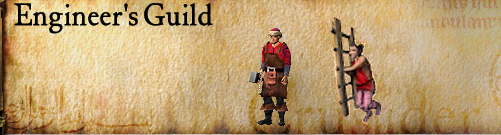
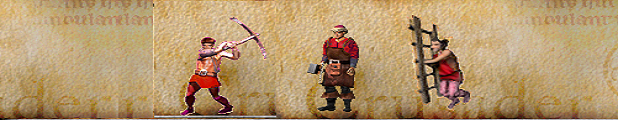
building pane completed

diff --git a/src/main/java/View/Controller/BuildingInfo.java b/src/main/java/View/Controller/BuildingInfo.java
@@ -1,14 +1,11 @@
 package View.Controller;
 
-import javafx.fxml.FXML;
 import javafx.scene.control.TextField;
-import javafx.scene.image.ImageView;
 import javafx.scene.input.MouseEvent;
 
 import java.util.ArrayList;
 
 import Controller.GameMenuController;
-import Model.DataBase;
 
 public class BuildingInfo {
     public static ArrayList<String> imagesOrder;
@@ -36,120 +33,143 @@ public class BuildingInfo {
     }
 
 
-    public void archerBow(MouseEvent mouseEvent) {
+    public void archerBow(MouseEvent ignoredMouseEvent) {
         GameMenuController.createUnitController("ArcherBow");
     }
 
-    public void slave(MouseEvent mouseEvent) {
+    public void slave(MouseEvent ignoredMouseEvent) {
         GameMenuController.createUnitController("Slave");
     }
 
-    public void slinger(MouseEvent mouseEvent) {
+    public void slinger(MouseEvent ignoredMouseEvent) {
         GameMenuController.createUnitController("Slinger");
     }
 
-    public void assassin(MouseEvent mouseEvent) {
+    public void assassin(MouseEvent ignoredMouseEvent) {
         GameMenuController.createUnitController("Assassin");
     }
 
-    public void arabianSwordMan(MouseEvent mouseEvent) {
+    public void arabianSwordMan(MouseEvent ignoredMouseEvent) {
         GameMenuController.createUnitController("ArabianSwordMan");
     }
 
-    public void horseArcher(MouseEvent mouseEvent) {
+    public void horseArcher(MouseEvent ignoredMouseEvent) {
         GameMenuController.createUnitController("HorseArcher");
     }
 
-    public void fireThrower(MouseEvent mouseEvent) {
+    public void fireThrower(MouseEvent ignoredMouseEvent) {
         GameMenuController.createUnitController("FireThrower");
     }
 
-    public void archer(MouseEvent mouseEvent) {
+    public void archer(MouseEvent ignoredMouseEvent) {
         GameMenuController.createUnitController("Archer");
     }
 
-    public void spearMan(MouseEvent mouseEvent) {
+    public void spearMan(MouseEvent ignoredMouseEvent) {
         GameMenuController.createUnitController("SpearMan");
     }
 
-    public void maceMan(MouseEvent mouseEvent) {
+    public void maceMan(MouseEvent ignoredMouseEvent) {
         GameMenuController.createUnitController("MaceMan");
     }
 
-    public void crossBowMan(MouseEvent mouseEvent) {
+    public void crossBowMan(MouseEvent ignoredMouseEvent) {
         GameMenuController.createUnitController("CrossBowMan");
     }
 
-    public void pikeMan(MouseEvent mouseEvent) {
+    public void pikeMan(MouseEvent ignoredMouseEvent) {
         GameMenuController.createUnitController("PikeMan");
     }
 
-    public void swordMan(MouseEvent mouseEvent) {
+    public void swordMan(MouseEvent ignoredMouseEvent) {
         GameMenuController.createUnitController("SwordMan");
     }
 
-    public void knight(MouseEvent mouseEvent) {
+    public void knight(MouseEvent ignoredMouseEvent) {
         GameMenuController.createUnitController("Knight");
     }
 
-    public void stanGround(MouseEvent mouseEvent) {
+    public void ladderMan(MouseEvent ignoredMouseEvent) {
+        GameMenuController.createUnitController("LadderMan");
+    }
+
+    public void engineer(MouseEvent ignoredMouseEvent) {
+        GameMenuController.createUnitController("Engineer");
+    }
+
+    public void tunneler(MouseEvent ignoredMouseEvent) {
+        GameMenuController.createUnitController("Tunneler");
+    }
+
+    public void stanGround(MouseEvent ignoredMouseEvent) {
         GameMenuController.setUnitModeController("stanGround");
     }
 
-    public void defensive(MouseEvent mouseEvent) {
+    public void defensive(MouseEvent ignoredMouseEvent) {
         GameMenuController.setUnitModeController("defensive");
     }
 
-    public void aggressive(MouseEvent mouseEvent) {
+    public void aggressive(MouseEvent ignoredMouseEvent) {
         GameMenuController.setUnitModeController("Aggressive");
     }
 
-    public void stop(MouseEvent mouseEvent) {
+    public void stop(MouseEvent ignoredMouseEvent) {
 
     }
 
-    public void patrol(MouseEvent mouseEvent) {
+    public void patrol(MouseEvent ignoredMouseEvent) {
 
     }
 
-    public void attack(MouseEvent mouseEvent) {
+    public void attack(MouseEvent ignoredMouseEvent) {
 
     }
 
-    public void disband(MouseEvent mouseEvent) {
-
+    public void disband(MouseEvent ignoredMouseEvent) {
+        GameMenuController.disbandUnit();
     }
 
-    public void repair(MouseEvent mouseEvent) {
+    public void repair(MouseEvent ignoredMouseEvent) {
+        GameMenuController.repair();
     }
 
-    public void close(MouseEvent mouseEvent) {
+    public void close(MouseEvent ignoredMouseEvent) {
+        GameMenuController.modifyGates(false);
     }
 
-    public void open(MouseEvent mouseEvent) {
+    public void open(MouseEvent ignoredMouseEvent) {
+        GameMenuController.modifyGates(true);
     }
 
-    public void sword(MouseEvent mouseEvent) {
+    public void sword(MouseEvent ignoredMouseEvent) {
+        GameMenuController.changeProduct("Sword");
     }
 
-    public void mace(MouseEvent mouseEvent) {
+    public void mace(MouseEvent ignoredMouseEvent) {
+        GameMenuController.changeProduct("Mace");
     }
 
-    public void bow(MouseEvent mouseEvent) {
+    public void bow(MouseEvent ignoredMouseEvent) {
+        GameMenuController.changeProduct("Bow");
     }
 
-    public void crossBow(MouseEvent mouseEvent) {
+    public void crossBow(MouseEvent ignoredMouseEvent) {
+        GameMenuController.changeProduct("CrossBow");
     }
 
-    public void spear(MouseEvent mouseEvent) {
+    public void spear(MouseEvent ignoredMouseEvent) {
+        GameMenuController.changeProduct("Spear");
     }
 
-    public void pike(MouseEvent mouseEvent) {
+    public void pike(MouseEvent ignoredMouseEvent) {
+        GameMenuController.changeProduct("Pike");
     }
 
-    public void leatherArmour(MouseEvent mouseEvent) {
+    public void leatherArmour(MouseEvent ignoredMouseEvent) {
+        GameMenuController.changeProduct("LeatherArmour");
     }
 
-    public void cheese(MouseEvent mouseEvent) {
+    public void cheese(MouseEvent ignoredMouseEvent) {
+        GameMenuController.changeProduct("Cheese");
     }
 }

diff --git a/src/main/java/Controller/GameMenuController.java b/src/main/java/Controller/GameMenuController.java
@@ -11,8 +11,12 @@ import Model.Units.Siege;
 import Model.Units.StateUnits;
 import Model.Units.Troop;
 import Model.Units.Unit;
+import View.Controller.BuildingInfo;
 import View.Game;
 import View.Enums.Messages.GameMenuMessages;
+import javafx.scene.control.Alert;
+
+import java.io.IOException;
 import java.util.ArrayList;
 import java.util.HashMap;
 import java.util.Objects;
@@ -50,7 +54,27 @@ public class GameMenuController {
 
 
 
-    public static ArrayList<ArrayList<Unit>> separateUnits(HashMap<String, Integer> unitNameAndCount) {
+
+    public static ArrayList<ArrayList<Unit>> separateUnits() {
+        HashMap<String, Integer> unitNameAndCount = new HashMap<>();
+
+        for (int i = 0; i < 8; i++) {
+            if (!BuildingInfo.getTextFields().get(i).isVisible()) break;
+            if (BuildingInfo.getTextFields().get(i).getText().matches("^\\d*$")) {
+                if (BuildingInfo.getTextFields().get(i).getText().matches("^\\d+$"))
+                    unitNameAndCount.put(BuildingInfo.imagesOrder.get(i), Integer.parseInt(BuildingInfo.getTextFields().get(i).getText()));
+                else
+                    unitNameAndCount.put(BuildingInfo.imagesOrder.get(i), -1);
+
+                continue;
+            }
+
+            Alert alert = new Alert(Alert.AlertType.ERROR);
+            alert.setTitle("Invalid Input");
+            alert.setHeaderText("Use Only 0-9");
+            return null ;
+        }
+
         ArrayList<ArrayList<Unit>> allUnits = new ArrayList<>();
 
         for (java.util.Map.Entry<String, Integer> set : unitNameAndCount.entrySet()) {
@@ -228,19 +252,55 @@ public class GameMenuController {
             return true;
         }
 
+        map.constructBuilding(building, building.getXCoordinateLeft(), building.getYCoordinateUp());//TODO : DELETE
         return true; // TODO : make it false
     }
 
 
     public static void disbandUnit() {
-        ArrayList<Unit> units = DataBase.getSelectedUnit();
-        if (units.size() == 0) return;
+        ArrayList<ArrayList<Unit>> allUnits = separateUnits();
+        if (allUnits == null) return;
 
-
-
-        currentGovernment.changeFreeWorkers(units.size());
-
+        for (ArrayList<Unit> selectedUnit : allUnits) {
+            currentGovernment.changeFreeWorkers(selectedUnit.size());
+            squares[selectedUnit.get(0).getXCoordinate()][selectedUnit.get(0).getYCoordinate()].removeAllUnit(selectedUnit.get(0));
+        }
     }
+
+    public static void modifyGates(boolean open) {
+        DataBase.getSelectedBuilding().changeCanPass(open);
+    }
+
+    public static void repair() {
+        Building selectedBuilding = DataBase.getSelectedBuilding();
+        if (selectedBuilding.getMaximumHp() == selectedBuilding.getHp()) return;
+
+        Resource stone = Resource.getResourceByName("Stone");
+        double damage = (selectedBuilding.getMaximumHp() - selectedBuilding.getHp()) / (selectedBuilding.getMaximumHp() * 1.0);
+        int stoneNumber = (int) (Math.ceil(damage * selectedBuilding.getNumberOfResource()));
+
+        if (currentGovernment.getResourceInStockpiles(stone) >= stoneNumber) {
+            currentGovernment.removeFromStockpile(stone, stoneNumber);
+            selectedBuilding.changeHP(selectedBuilding.getHp() - selectedBuilding.getMaximumHp());
+
+            try {
+                game.showBuildingDetail(selectedBuilding);
+            } catch (IOException e) {
+                throw new RuntimeException(e);
+            }
+        }
+    }
+
+    public static void changeProduct(String product) {
+        Building selectedBuilding = DataBase.getSelectedBuilding();
+        if (!(selectedBuilding instanceof Generator)) return;
+
+        Resource last = ((Generator) selectedBuilding).getResourceGenerate();
+        currentGovernment.addToGenerationRate(product, ((Generator) selectedBuilding).getGeneratingRate());
+        currentGovernment.removeFromResourceGenerationRate(last.getName(), ((Generator) selectedBuilding).getGeneratingRate());
+    }
+
+
 
     private static GameMenuMessages attackBySingleType(String enemyX, String enemyY) {
         Game game=DataBase.getGame();

diff --git a/src/main/java/View/Game.java b/src/main/java/View/Game.java
@@ -639,7 +639,9 @@ public class Game extends Application{
         mainPane.getChildren().add(selectedSquareInfo);
     }
 
-    private void showBuildingDetail(Building building) throws IOException {
+    public void showBuildingDetail(Building building) throws IOException {
+        mainPane.getChildren().remove(detail);
+
         if (building.getName().equals("MercenaryPost")) {
             detail = FXMLLoader.load(
                     new URL(Objects.requireNonNull(Game.class.getResource("/fxml/MercenaryPost.fxml")).toExternalForm()));
@@ -672,6 +674,27 @@ public class Game extends Application{
             detail = FXMLLoader.load(
                     new URL(Objects.requireNonNull(Game.class.getResource("/fxml/DairyFarm.fxml")).toExternalForm()));
         } else return;
+
+        if (building instanceof Defence) {
+            Label hp = new Label(String.valueOf(building.getHp()));
+            hp.setLayoutX(39);
+            hp.setLayoutY(41);
+            hp.setPrefWidth(35);
+            hp.setPrefHeight(37);
+            hp.setFont(new Font(18));
+            hp.setAlignment(Pos.CENTER);
+
+            Label maxHp = new Label(String.valueOf(building.getMaximumHp()));
+            maxHp.setLayoutX(105);
+            maxHp.setLayoutY(41);
+            maxHp.setPrefWidth(35);
+            maxHp.setPrefHeight(37);
+            maxHp.setFont(new Font(18));
+            maxHp.setAlignment(Pos.CENTER);
+
+            detail.getChildren().add(hp);
+            detail.getChildren().add(maxHp);
+        }
 
         detail.setLayoutX(115);
         detail.setLayoutY(30);
@@ -778,27 +801,9 @@ public class Game extends Application{
     }
 
     public void move (int finalX, int finalY) {
-        HashMap<String, Integer> unitNameAndCount = new HashMap<>();
+        ArrayList<ArrayList<Unit>> allUnits = GameMenuController.separateUnits();
+        if (allUnits == null) return;
 
-        for (int i = 0; i < 8; i++) {
-            if (!BuildingInfo.getTextFields().get(i).isVisible()) break;
-            if (BuildingInfo.getTextFields().get(i).getText().matches("^\\d*$")) {
-                if (BuildingInfo.getTextFields().get(i).getText().matches("^\\d+$"))
-                    unitNameAndCount.put(BuildingInfo.imagesOrder.get(i), Integer.parseInt(BuildingInfo.getTextFields().get(i).getText()));
-                else
-                    unitNameAndCount.put(BuildingInfo.imagesOrder.get(i), -1);
-
-                continue;
-            }
-
-            Alert alert = new Alert(Alert.AlertType.ERROR);
-            alert.setTitle("Invalid Input");
-            alert.setHeaderText("Use Only 0-9");
-            return;
-        }
-
-
-        ArrayList<ArrayList<Unit>> allUnits = GameMenuController.separateUnits(unitNameAndCount);
         ArrayList<Unit> unitForDataBase = new ArrayList<>();
         ArrayList<MoveAnimation> moveAnimations = new ArrayList<>();
 

diff --git a/src/main/java/Model/Government.java b/src/main/java/Model/Government.java
@@ -186,6 +186,12 @@ public class Government {
         requestsIAsked.add(tradeRequest);
     }
 
+    public void removeFromResourceGenerationRate(String resource, int cnt) {
+        if (!resourceGenerationRate.containsKey(resource)) return;
+
+        resourceGenerationRate.put(resource, resourceGenerationRate.get(resource) - cnt);
+    }
+
     public ArrayList<Stockpile> getStockpiles() {
         return stockpiles;
     }
